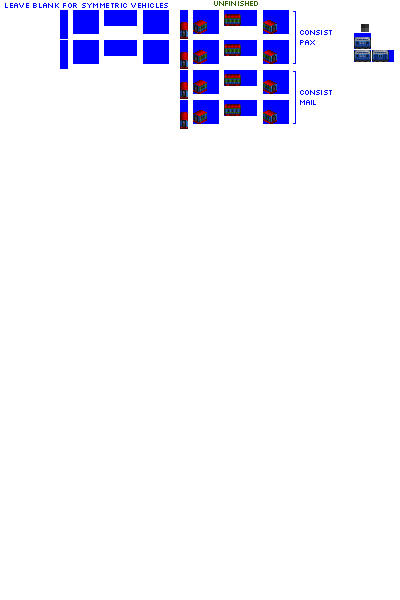
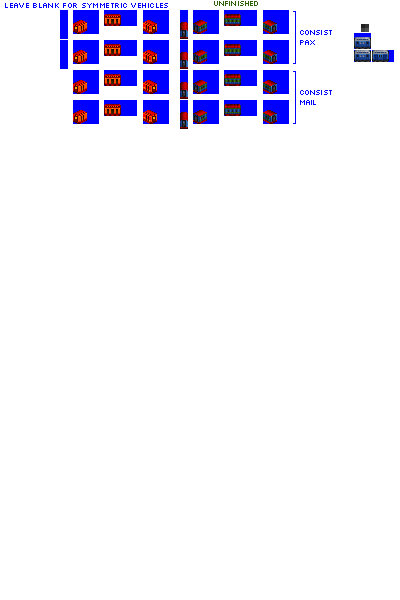
Change: sprites complete for gen 2A and 3A mail cars

Changed region(s): [[0.18, 0.0, 0.42, 0.21]]

diff --git a/src/vehicles/mail_cars.py b/src/vehicles/mail_cars.py
@@ -41,7 +41,8 @@ def main():
     consist = MailCarConsist(roster='pony',
                              base_numeric_id=2290,
                              gen=2,
-                             subtype='A')
+                             subtype='A',
+                             sprites_complete=True)
 
     consist.add_unit(type=PaxMailCar,
                      capacity=10,
@@ -62,7 +63,8 @@ def main():
     consist = MailCarConsist(roster='pony',
                              base_numeric_id=1830,
                              gen=3,
-                             subtype='A')
+                             subtype='A',
+                             sprites_complete=True)
 
     consist.add_unit(type=PaxMailCar,
                      capacity=10,
